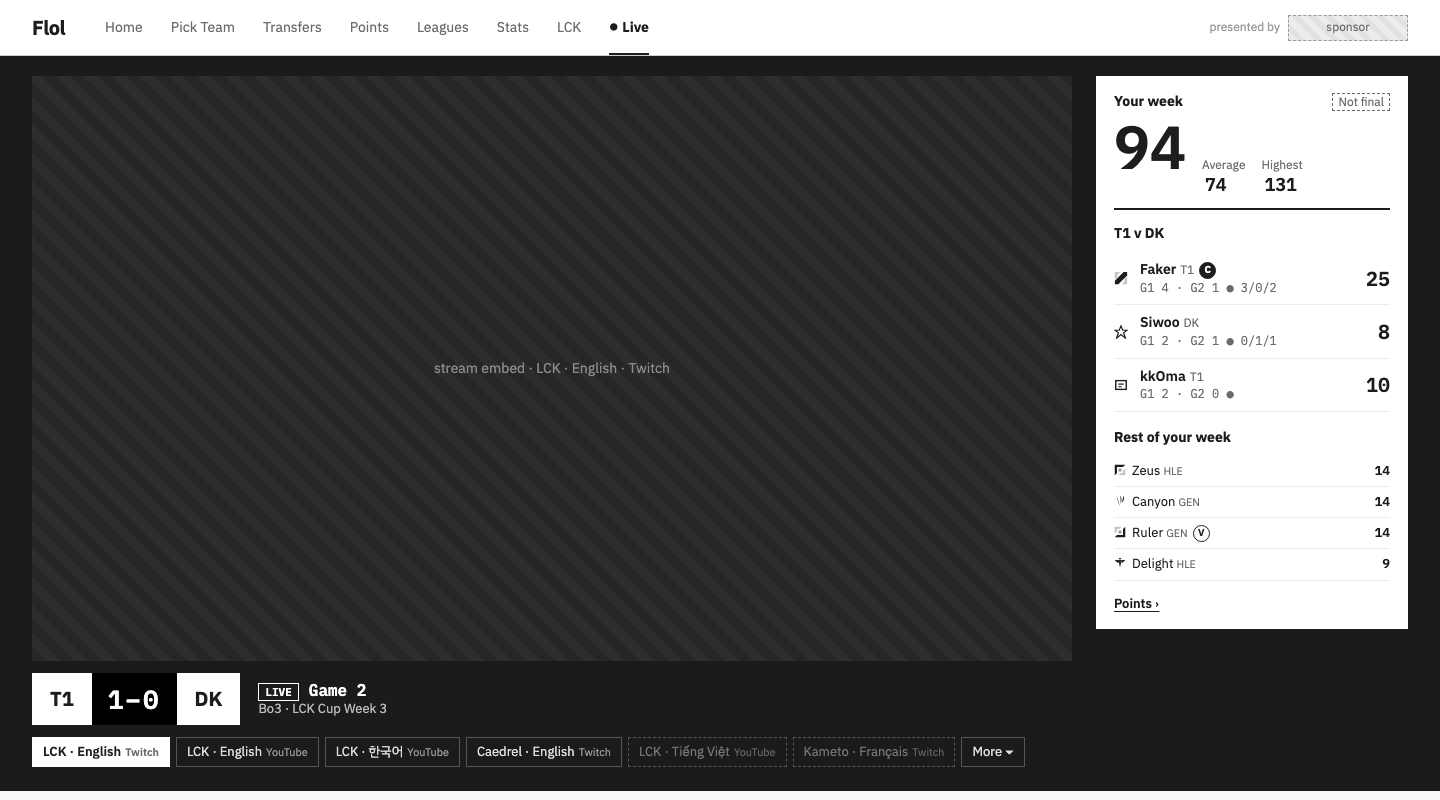
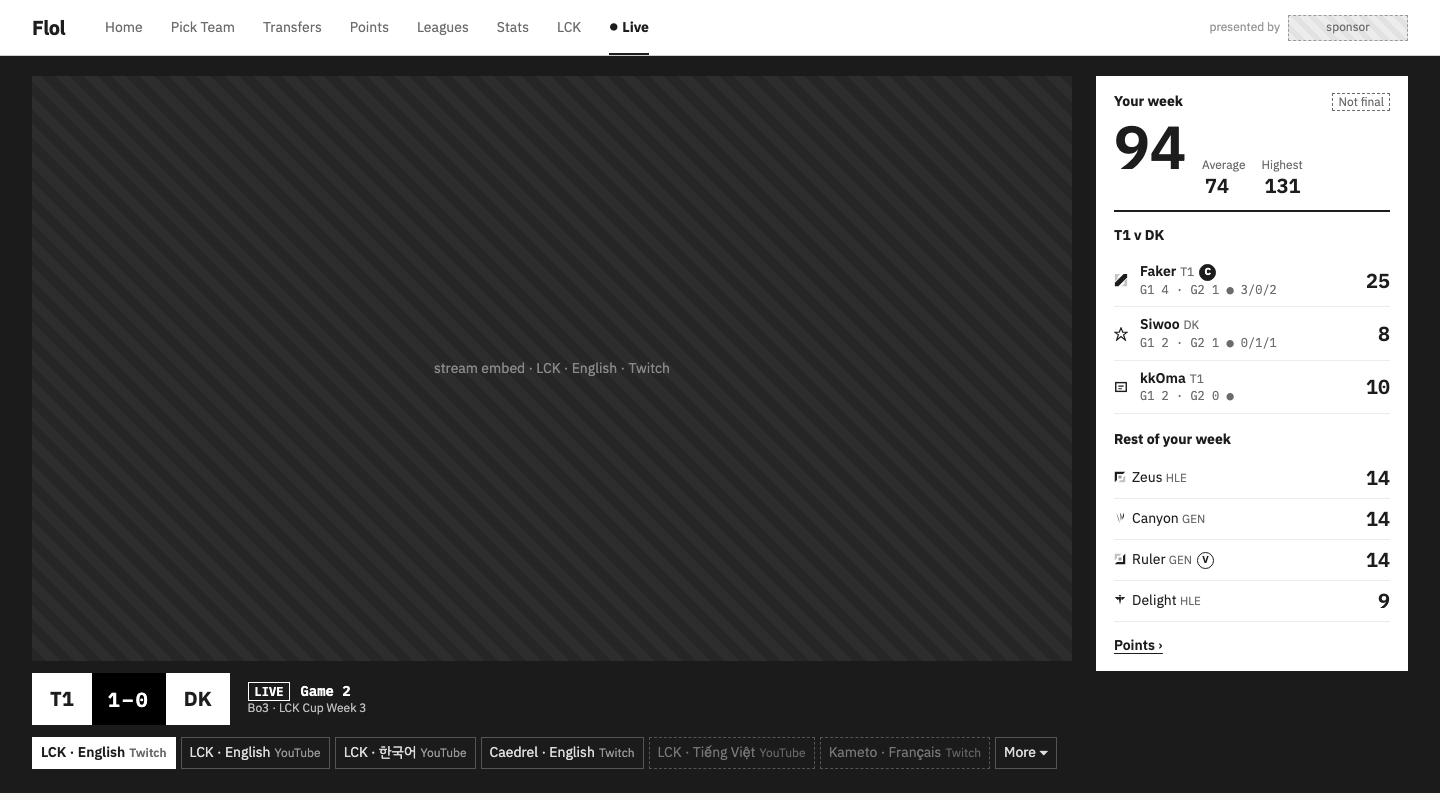
docs: Live on one type scale; five sizes, every points figure at 20

diff --git a/docs/design/approved/live/live.html b/docs/design/approved/live/live.html
@@ -11,9 +11,10 @@ nav.top a.live::before { content: "●"; font-size: 9px; margin-right: 4px; vert
 nav.top .sp { flex: 1; }
 .presented { color: var(--soft); font-size: 12px; display: flex; gap: 8px; align-items: center; }
 .ph { background: repeating-linear-gradient(45deg, var(--fill), var(--fill) 6px, #e2e2e2 6px, #e2e2e2 12px); border: 1px dashed var(--soft); color: var(--mid); display: flex; align-items: center; justify-content: center; font-size: 12px; }
-.tag { display: inline-block; border: 1px solid var(--ink); padding: 0 5px; font-size: 11px; font-weight: 600; line-height: 16px; }
+.tag { display: inline-block; border: 1px solid var(--ink); padding: 0 5px; font-size: 12px; font-weight: 600; line-height: 16px; }
 .tag.prov { border-style: dashed; color: var(--mid); border-color: var(--mid); font-weight: 400; }
 
+/* type scale: 120 countdown · 60 hero · 20 tier-2 · 14 body · 12 labels (the nav is shared) */
 /* the stage: stream and your points, Twitch theatre with your points where chat would be */
 .stage { background: var(--stage); padding: 20px 32px 24px; display: grid; grid-template-columns: 1040px 1fr; gap: 24px; }
 .screen { position: relative; width: 1040px; height: 585px; background: var(--stage2); overflow: hidden; }
@@ -23,14 +24,14 @@ nav.top .sp { flex: 1; }
 .bug .sb { display: flex; align-items: stretch; }
 .bug .tm { background: #fff; color: var(--ink); font: 700 20px "IBM Plex Sans KR"; padding: 0 18px; display: flex; align-items: center; gap: 8px; }
 .bug .tm small { font: 400 12px "IBM Plex Sans KR"; color: var(--mid); }
-.bug .sc { background: #000; font: 600 26px "IBM Plex Mono", monospace; padding: 0 16px; display: flex; align-items: center; letter-spacing: 2px; }
-.bug .gm { padding: 0 18px; display: flex; flex-direction: column; justify-content: center; font-size: 13px; color: #bbb; } .bug .gm b { color: #fff; font: 600 16px "IBM Plex Mono", monospace; }
-.bug .lv { align-self: center; border: 1px solid #fff; color: #fff; font-size: 11px; font-weight: 700; padding: 1px 6px; margin-right: 10px; }
+.bug .sc { background: #000; font: 600 20px "IBM Plex Mono", monospace; padding: 0 16px; display: flex; align-items: center; letter-spacing: 2px; }
+.bug .gm { padding: 0 18px; display: flex; flex-direction: column; justify-content: center; font-size: 12px; color: #bbb; } .bug .gm b { color: #fff; font: 600 14px "IBM Plex Mono", monospace; }
+.bug .lv { align-self: center; border: 1px solid #fff; color: #fff; font-size: 12px; font-weight: 700; padding: 1px 6px; margin-right: 10px; }
 
 .side { background: var(--paper); padding: 16px 18px; align-self: start; display: flex; flex-direction: column; }
 .side h2 { font-size: 14px; display: flex; justify-content: space-between; align-items: baseline; margin-bottom: 8px; } .side h2 span { font-weight: 400; color: var(--mid); font-size: 12px; }
 .tot { display: flex; align-items: baseline; gap: 16px; padding-bottom: 12px; border-bottom: 2px solid var(--ink); margin-bottom: 14px; }
-.tot .big { font: 600 60px/0.9 "IBM Plex Mono", monospace; } .tot .sm { color: var(--mid); font-size: 12px; } .tot .sm b { font: 600 18px "IBM Plex Mono", monospace; color: var(--ink); margin-left: 3px; display: block; }
+.tot .big { font: 600 60px/0.9 "IBM Plex Mono", monospace; } .tot .sm { color: var(--mid); font-size: 12px; } .tot .sm b { font: 600 20px "IBM Plex Mono", monospace; color: var(--ink); margin-left: 3px; display: block; }
 .row { display: grid; grid-template-columns: 18px 1fr auto; gap: 8px; align-items: center; padding: 8px 0; border-bottom: 1px solid var(--fill); }
 .row svg { width: 14px; height: 14px; }
 .row .nm { font-weight: 600; } .row .nm small { font-weight: 400; color: var(--mid); font-size: 12px; margin-left: 4px; }
@@ -39,20 +40,20 @@ nav.top .sp { flex: 1; }
 .mk { display: inline-block; width: 17px; height: 17px; border: 1.5px solid var(--ink); border-radius: 50%; font: 700 10px/14px "IBM Plex Sans KR"; text-align: center; margin-left: 5px; vertical-align: 1px; }
 .mk.c { background: var(--ink); color: #fff; }
 .sec2 { margin-top: 16px; }
-.rest { display: grid; grid-template-columns: 1fr auto; padding: 6px 0; border-bottom: 1px solid var(--fill); font-size: 13px; } .rest b { font-family: "IBM Plex Mono", monospace; }
+.rest { display: grid; grid-template-columns: 1fr auto; align-items: center; padding: 6px 0; border-bottom: 1px solid var(--fill); font-size: 14px; } .rest b { font-size: 20px; font-weight: 600; } .rest b { font-family: "IBM Plex Mono", monospace; }
 .rest small { color: var(--mid); }
 .spx { height: 14px; }
-.more { font-weight: 600; font-size: 13px; text-decoration: underline; text-underline-offset: 3px; }
-.down { background: var(--ink); color: #fff; padding: 10px 12px; font-size: 13px; margin-bottom: 12px; } .down b { display: block; font-size: 14px; }
+.more { font-weight: 600; font-size: 14px; text-decoration: underline; text-underline-offset: 3px; }
+.down { background: var(--ink); color: #fff; padding: 10px 12px; font-size: 12px; margin-bottom: 12px; } .down b { display: block; font-size: 14px; }
 
 /* the picker: Home's chips */
-.pick { display: flex; gap: 6px; margin-top: 12px; font-size: 13px; flex-wrap: wrap; } .pick span { border: 1px solid #555; color: #ddd; padding: 5px 10px; } .pick span small { color: #999; margin-left: 4px; } .pick span.on { border-color: #fff; background: #fff; color: var(--ink); font-weight: 600; } .pick span.on small { color: var(--mid); } .pick span.off { color: #777; border-style: dashed; } .pick span.off small { color: #666; }
+.pick { display: flex; gap: 5px; margin-top: 12px; font-size: 14px; flex-wrap: wrap; } .pick span { border: 1px solid #555; color: #ddd; padding: 5px 8px; } .pick span small { font-size: 12px; color: #999; margin-left: 4px; } .pick span.on { border-color: #fff; background: #fff; color: var(--ink); font-weight: 600; } .pick span.on small { color: var(--mid); } .pick span.off { color: #777; border-style: dashed; } .pick span.off small { color: #666; }
 
 /* nothing live */
 .idle { position: absolute; inset: 0; background: var(--stage2); color: #fff; padding: 64px 72px; }
-.idle span { color: #bbb; font-size: 15px; display: block; }
-.idle .vs { font: 700 64px/1.1 "IBM Plex Sans KR"; letter-spacing: -1.5px; margin: 8px 0 4px; } .idle .vs i { font-style: normal; color: #8a8a8a; font-weight: 400; margin: 0 14px; }
-.idle .cd { font: 600 120px "IBM Plex Mono", monospace; letter-spacing: -2px; margin-top: 36px; } .idle .cd small { font-size: 24px; color: #8a8a8a; margin: 0 14px 0 4px; font-weight: 400; }
+.idle span { color: #bbb; font-size: 14px; display: block; }
+.idle .vs { font: 700 60px/1.1 "IBM Plex Sans KR"; letter-spacing: -1.5px; margin: 8px 0 4px; } .idle .vs i { font-style: normal; color: #8a8a8a; font-weight: 400; margin: 0 14px; }
+.idle .cd { font: 600 120px "IBM Plex Mono", monospace; letter-spacing: -2px; margin-top: 36px; } .idle .cd small { font-size: 20px; color: #8a8a8a; margin: 0 14px 0 4px; font-weight: 400; }
 </style></head><body>
 <svg width="0" height="0" style="position:absolute"><defs>
   <symbol id="i-top" viewBox="0 0 16 16"><path d="M1 1h14l-3 3H4v8l-3 3z" fill="#1d1d1d"/><rect x="6" y="6" width="4" height="4" fill="#9a9a9a"/><path d="M15 6v9H6l3-3h3V9z" fill="#c4c4c4"/></symbol>

diff --git a/docs/design/proposals/2026-11-14-live/live.html b/docs/design/proposals/2026-11-14-live/live.html
@@ -11,9 +11,10 @@ nav.top a.live::before { content: "●"; font-size: 9px; margin-right: 4px; vert
 nav.top .sp { flex: 1; }
 .presented { color: var(--soft); font-size: 12px; display: flex; gap: 8px; align-items: center; }
 .ph { background: repeating-linear-gradient(45deg, var(--fill), var(--fill) 6px, #e2e2e2 6px, #e2e2e2 12px); border: 1px dashed var(--soft); color: var(--mid); display: flex; align-items: center; justify-content: center; font-size: 12px; }
-.tag { display: inline-block; border: 1px solid var(--ink); padding: 0 5px; font-size: 11px; font-weight: 600; line-height: 16px; }
+.tag { display: inline-block; border: 1px solid var(--ink); padding: 0 5px; font-size: 12px; font-weight: 600; line-height: 16px; }
 .tag.prov { border-style: dashed; color: var(--mid); border-color: var(--mid); font-weight: 400; }
 
+/* type scale: 120 countdown · 60 hero · 20 tier-2 · 14 body · 12 labels (the nav is shared) */
 /* the stage: stream and your points, Twitch theatre with your points where chat would be */
 .stage { background: var(--stage); padding: 20px 32px 24px; display: grid; grid-template-columns: 1040px 1fr; gap: 24px; }
 .screen { position: relative; width: 1040px; height: 585px; background: var(--stage2); overflow: hidden; }
@@ -23,14 +24,14 @@ nav.top .sp { flex: 1; }
 .bug .sb { display: flex; align-items: stretch; }
 .bug .tm { background: #fff; color: var(--ink); font: 700 20px "IBM Plex Sans KR"; padding: 0 18px; display: flex; align-items: center; gap: 8px; }
 .bug .tm small { font: 400 12px "IBM Plex Sans KR"; color: var(--mid); }
-.bug .sc { background: #000; font: 600 26px "IBM Plex Mono", monospace; padding: 0 16px; display: flex; align-items: center; letter-spacing: 2px; }
-.bug .gm { padding: 0 18px; display: flex; flex-direction: column; justify-content: center; font-size: 13px; color: #bbb; } .bug .gm b { color: #fff; font: 600 16px "IBM Plex Mono", monospace; }
-.bug .lv { align-self: center; border: 1px solid #fff; color: #fff; font-size: 11px; font-weight: 700; padding: 1px 6px; margin-right: 10px; }
+.bug .sc { background: #000; font: 600 20px "IBM Plex Mono", monospace; padding: 0 16px; display: flex; align-items: center; letter-spacing: 2px; }
+.bug .gm { padding: 0 18px; display: flex; flex-direction: column; justify-content: center; font-size: 12px; color: #bbb; } .bug .gm b { color: #fff; font: 600 14px "IBM Plex Mono", monospace; }
+.bug .lv { align-self: center; border: 1px solid #fff; color: #fff; font-size: 12px; font-weight: 700; padding: 1px 6px; margin-right: 10px; }
 
 .side { background: var(--paper); padding: 16px 18px; align-self: start; display: flex; flex-direction: column; }
 .side h2 { font-size: 14px; display: flex; justify-content: space-between; align-items: baseline; margin-bottom: 8px; } .side h2 span { font-weight: 400; color: var(--mid); font-size: 12px; }
 .tot { display: flex; align-items: baseline; gap: 16px; padding-bottom: 12px; border-bottom: 2px solid var(--ink); margin-bottom: 14px; }
-.tot .big { font: 600 60px/0.9 "IBM Plex Mono", monospace; } .tot .sm { color: var(--mid); font-size: 12px; } .tot .sm b { font: 600 18px "IBM Plex Mono", monospace; color: var(--ink); margin-left: 3px; display: block; }
+.tot .big { font: 600 60px/0.9 "IBM Plex Mono", monospace; } .tot .sm { color: var(--mid); font-size: 12px; } .tot .sm b { font: 600 20px "IBM Plex Mono", monospace; color: var(--ink); margin-left: 3px; display: block; }
 .row { display: grid; grid-template-columns: 18px 1fr auto; gap: 8px; align-items: center; padding: 8px 0; border-bottom: 1px solid var(--fill); }
 .row svg { width: 14px; height: 14px; }
 .row .nm { font-weight: 600; } .row .nm small { font-weight: 400; color: var(--mid); font-size: 12px; margin-left: 4px; }
@@ -39,20 +40,20 @@ nav.top .sp { flex: 1; }
 .mk { display: inline-block; width: 17px; height: 17px; border: 1.5px solid var(--ink); border-radius: 50%; font: 700 10px/14px "IBM Plex Sans KR"; text-align: center; margin-left: 5px; vertical-align: 1px; }
 .mk.c { background: var(--ink); color: #fff; }
 .sec2 { margin-top: 16px; }
-.rest { display: grid; grid-template-columns: 1fr auto; padding: 6px 0; border-bottom: 1px solid var(--fill); font-size: 13px; } .rest b { font-family: "IBM Plex Mono", monospace; }
+.rest { display: grid; grid-template-columns: 1fr auto; align-items: center; padding: 6px 0; border-bottom: 1px solid var(--fill); font-size: 14px; } .rest b { font-size: 20px; font-weight: 600; } .rest b { font-family: "IBM Plex Mono", monospace; }
 .rest small { color: var(--mid); }
 .spx { height: 14px; }
-.more { font-weight: 600; font-size: 13px; text-decoration: underline; text-underline-offset: 3px; }
-.down { background: var(--ink); color: #fff; padding: 10px 12px; font-size: 13px; margin-bottom: 12px; } .down b { display: block; font-size: 14px; }
+.more { font-weight: 600; font-size: 14px; text-decoration: underline; text-underline-offset: 3px; }
+.down { background: var(--ink); color: #fff; padding: 10px 12px; font-size: 12px; margin-bottom: 12px; } .down b { display: block; font-size: 14px; }
 
 /* the picker: Home's chips */
-.pick { display: flex; gap: 6px; margin-top: 12px; font-size: 13px; flex-wrap: wrap; } .pick span { border: 1px solid #555; color: #ddd; padding: 5px 10px; } .pick span small { color: #999; margin-left: 4px; } .pick span.on { border-color: #fff; background: #fff; color: var(--ink); font-weight: 600; } .pick span.on small { color: var(--mid); } .pick span.off { color: #777; border-style: dashed; } .pick span.off small { color: #666; }
+.pick { display: flex; gap: 5px; margin-top: 12px; font-size: 14px; flex-wrap: wrap; } .pick span { border: 1px solid #555; color: #ddd; padding: 5px 8px; } .pick span small { font-size: 12px; color: #999; margin-left: 4px; } .pick span.on { border-color: #fff; background: #fff; color: var(--ink); font-weight: 600; } .pick span.on small { color: var(--mid); } .pick span.off { color: #777; border-style: dashed; } .pick span.off small { color: #666; }
 
 /* nothing live */
 .idle { position: absolute; inset: 0; background: var(--stage2); color: #fff; padding: 64px 72px; }
-.idle span { color: #bbb; font-size: 15px; display: block; }
-.idle .vs { font: 700 64px/1.1 "IBM Plex Sans KR"; letter-spacing: -1.5px; margin: 8px 0 4px; } .idle .vs i { font-style: normal; color: #8a8a8a; font-weight: 400; margin: 0 14px; }
-.idle .cd { font: 600 120px "IBM Plex Mono", monospace; letter-spacing: -2px; margin-top: 36px; } .idle .cd small { font-size: 24px; color: #8a8a8a; margin: 0 14px 0 4px; font-weight: 400; }
+.idle span { color: #bbb; font-size: 14px; display: block; }
+.idle .vs { font: 700 60px/1.1 "IBM Plex Sans KR"; letter-spacing: -1.5px; margin: 8px 0 4px; } .idle .vs i { font-style: normal; color: #8a8a8a; font-weight: 400; margin: 0 14px; }
+.idle .cd { font: 600 120px "IBM Plex Mono", monospace; letter-spacing: -2px; margin-top: 36px; } .idle .cd small { font-size: 20px; color: #8a8a8a; margin: 0 14px 0 4px; font-weight: 400; }
 </style></head><body>
 <svg width="0" height="0" style="position:absolute"><defs>
   <symbol id="i-top" viewBox="0 0 16 16"><path d="M1 1h14l-3 3H4v8l-3 3z" fill="#1d1d1d"/><rect x="6" y="6" width="4" height="4" fill="#9a9a9a"/><path d="M15 6v9H6l3-3h3V9z" fill="#c4c4c4"/></symbol>

diff --git a/docs/design/approved/live/README.md b/docs/design/approved/live/README.md
@@ -18,6 +18,7 @@ The Live page: a stream beside the manager's live points (spec/12, Live). It is 
 
 ## Layout
 
+- **Type**: five sizes only: 120 the countdown, 60 the total and the next series, 20 every points figure and the score, 14 body, 12 labels. The nav is shared.
 - **Stage** (dark): the stream at 1040 × 585, the scorebug under it, then the picker.
 - **Picker**: one chip per stream, showing name, language and platform. The one you're watching is filled; streams that are not live are dashed and greyed. **More ▾** opens the full list, with each stream's channel.
 - **Points panel**, no captions:
